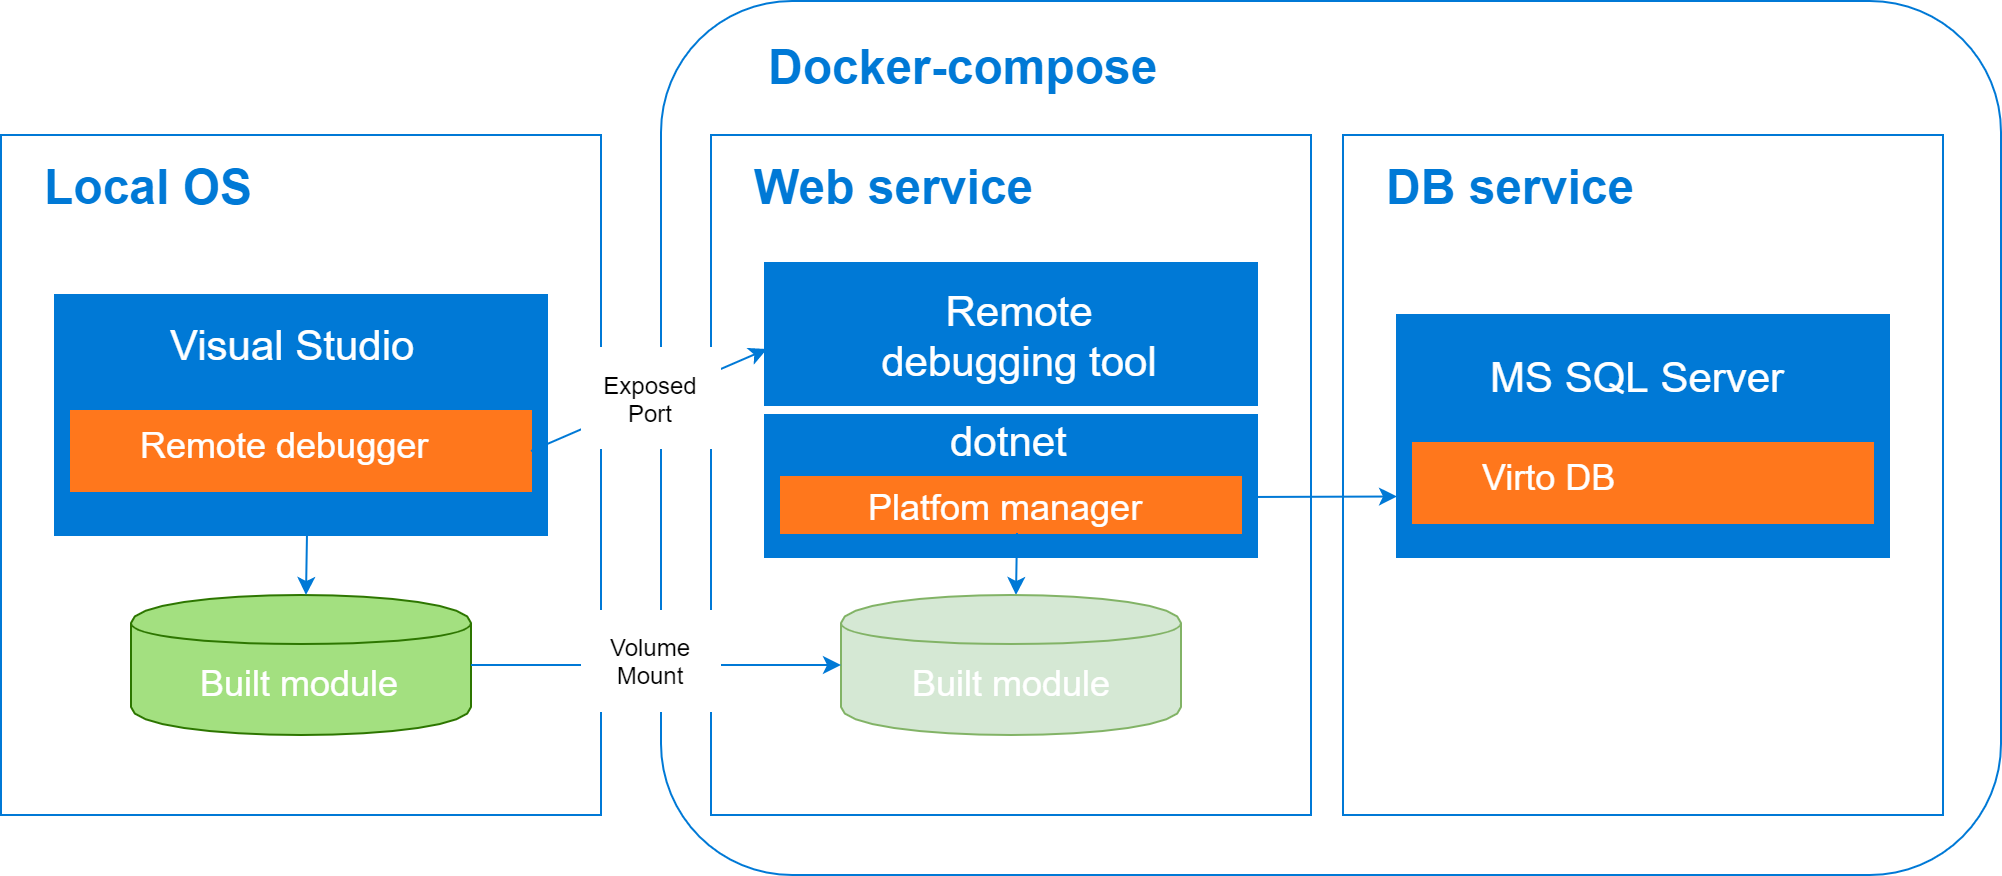
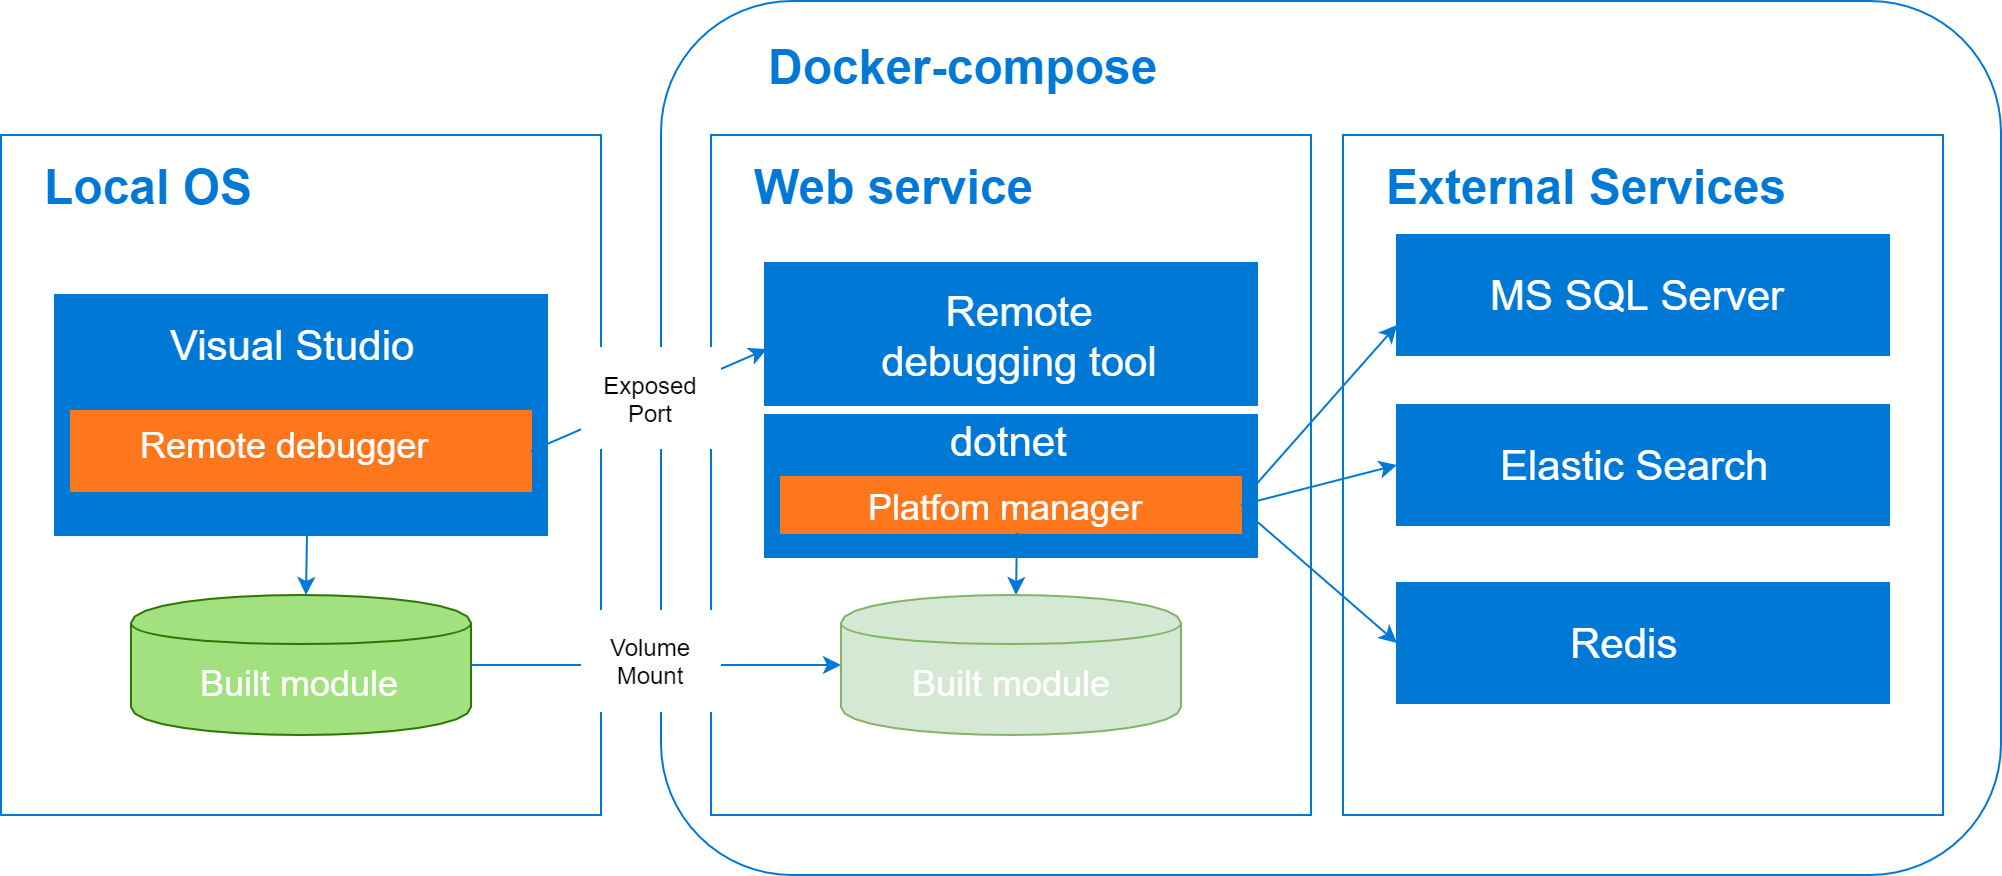
VP-4928: Update image link

Changed region(s): [[0.6194, 0.4932, 0.96, 0.8014], [0.6813, 0.1849, 0.96, 0.4623]]

diff --git a/docs/developer-guide/modules-development-via-docker.md b/docs/developer-guide/modules-development-via-docker.md
@@ -13,6 +13,8 @@ Virto Commerce Team have created [docker-compose.yml](https://github.com/VirtoCo
 
 VC Platform Manager web app was containerized as several services: Web service (Platform manager), External services for MS SQL Server, Elastic Search and Redis. It's run as a multi-container app and orchestrated by using _Docker Compose_.
 
+![Developing inside a Container](../media/developing-inside-container.png)
+
 > _Storefront_ and _Theme_ are not included in this solution.
 
 Web service container is based on *virtocommerce/platform* latest Linux image.
